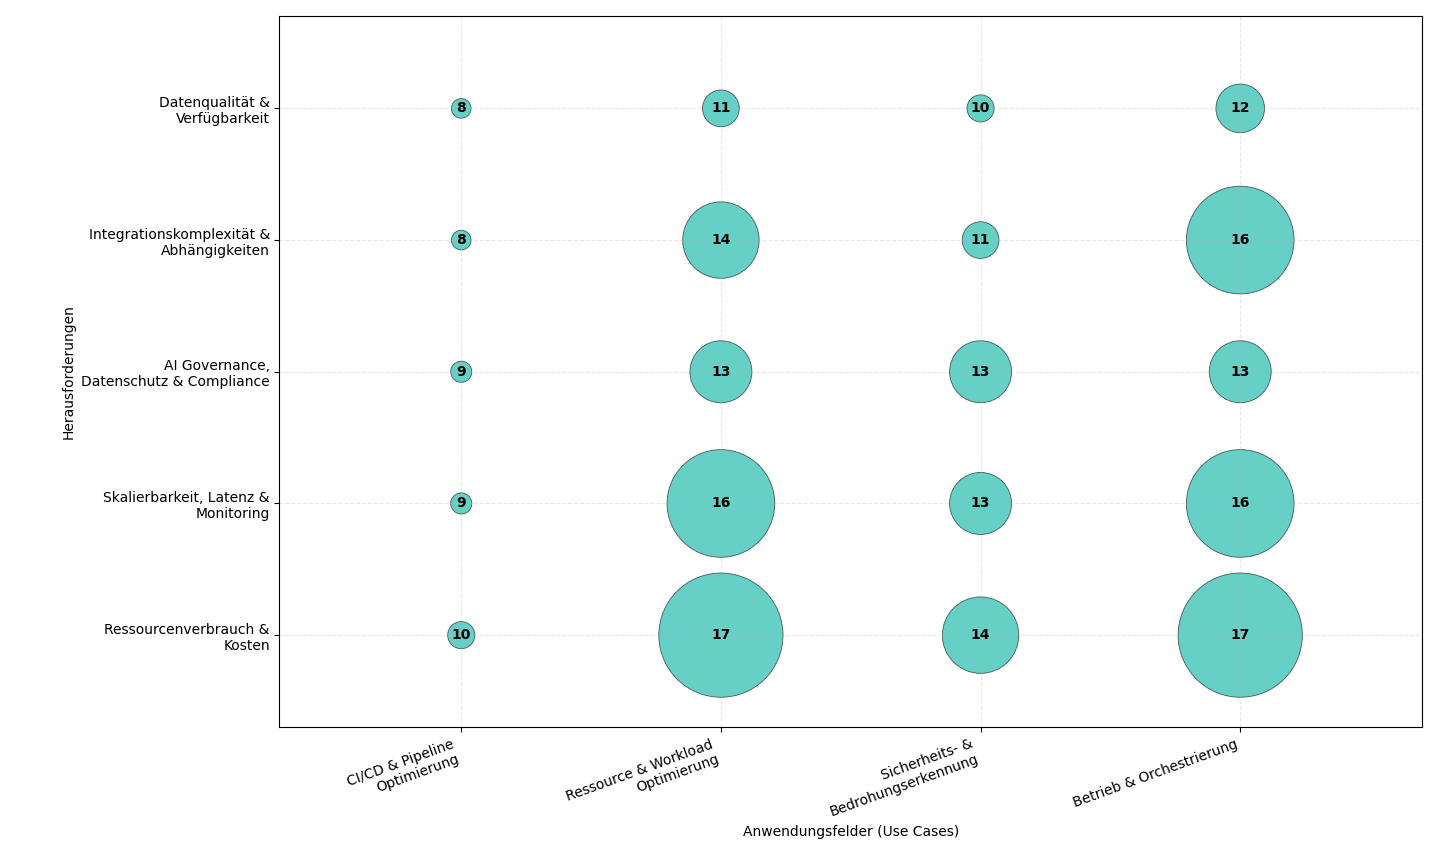
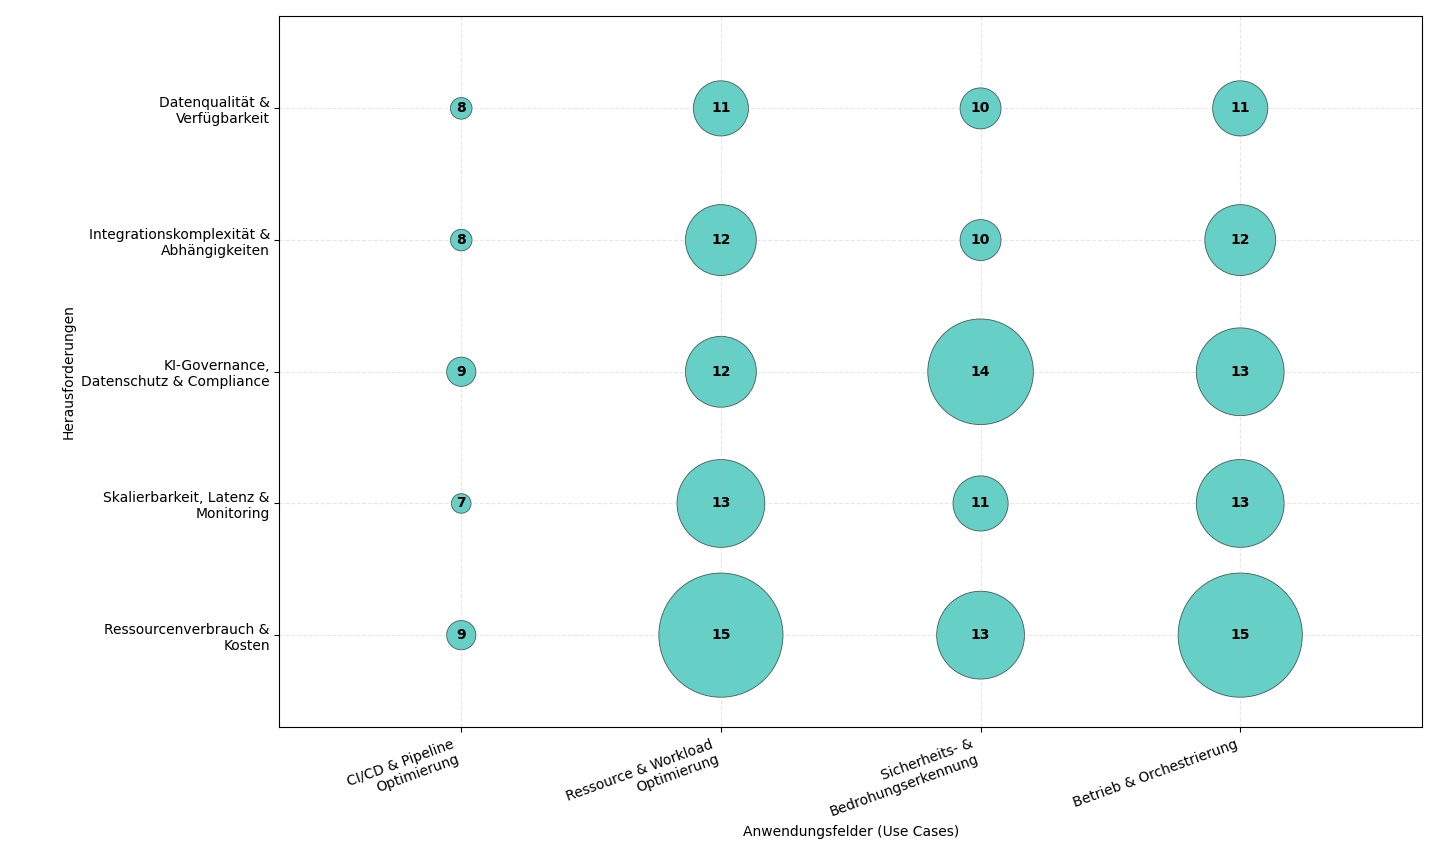
feat: 04_02 überarbeitet

diff --git a/chapters/subchapters/04_ergebnisse/04_02_mappingStudy.tex b/chapters/subchapters/04_ergebnisse/04_02_mappingStudy.tex
@@ -17,31 +17,33 @@ Die Häufigkeiten geben an, wie oft eine bestimmte Kombination in der Literatur 
 \begin{figure}[H]
     \centering
     \includegraphics[width=\textwidth]{figures/04_ergebnisse/04_02_mapping/04_02_01_mapping.png}
-    \caption{Korrelation zwischen Anwendungsfelderen (Use Cases) und Herausforderungen}
+    \caption{Korrelation zwischen Anwendungsfelder (Use Cases) und Herausforderungen}
     \label{fig:04_02_01_mapping}
 \end{figure}
 
-Besonders deutlich wird die starke Verknüpfung der Use Cases Ressourcen- und Workload-Optimierung sowie Resilienz, Self-Healing und Predictive Maintenance mit nahezu allen Herausforderungskategorien. 
-Die Ressourcen- und Workload-Optimierung weist in allen Bereichen hohe Werte auf, je nach Herausforderung liegen diese zwischen n=13 und n=17.
-Dieser Anwendungsfall verdeutlicht ein Spannungsfeld zwischen hohem Ressourcenbedarf, Datenmanagement und Pipeline-Komplexität (bedingt durch große und heterogene Datenmengen) sowie Trade-offs zwischen Skalierbarkeit und Latenz, wie es auch in \cite{bajwaCLOUDNATIVEARCHITECTURESLARGESCALE2025} beschrieben wird.
-Ein ähnlich breites Muster zeigt sich im Bereich Self-Healing und Predictive Maintenance, der über alle Herausforderungskategorien hinweg hohe Häufigkeiten erreicht (zwischen n= 12 und n=17).
-Insgesamt deutet dies darauf hin, dass beide Use Cases in der Literatur als besonders relevante Einsatzfelder für KI-basierte Optimierungen betrachtet werden, da sie auf zentrale betriebliche Ziele wie Effizienz, Zuverlässigkeit und einen höheren Automatisierungsgrad in DevOps-Prozessen einzahlen \cite{kankanalaAIMLDevOps2024}.
+Besonders deutlich wird die starke Verknüpfung der Use Cases Ressource- und Workload-Optimierung sowie Betrieb und Orchestrierung mit nahezu allen Herausforderungskategorien.
+Die Ressourcen- und Workload-Optimierung weist über alle Bereiche hinweg hohe Werte auf (n=15, 13, 12, 12, 11). 
+Diese breite Korrelation ist plausibel, da Ressourcen- und Workload-Optimierung einen besonders direkten Bezug zu Kosten hat und sich Effekte häufig über die Cloud-Abrechnung unmittelbar sichtbar machen.
+KI-gesteuertes Auto-Scaling vermeidet die Überbereitstellung von Ressourcen und senkt dadurch die monatlichen Abrechnungskosten direkt \cite{poudelAIDrivenIntelligentAutoScaling2025a}.
+Gleichzeitig wird deutlich, dass Echtzeit-Inferenz zwar Genauigkeit und Latenz verbessert, jedoch durch höheren CPU-/Memory-Verbrauch die Ressourcen- und Kostenbelastung erhöht und damit eine Abwägung zwischen Modellqualität und Betriebsaufwand erforderlich macht \cite{guptaCloudNativeMLArchitecting2024a}.
 
-Der Use Case Sicherheits- und Bedrohungserkennung zeigt seine höchste Ausprägung im Bereich AI Governance, Datenschutz und Compliance (n=14) sowie bei Ressourcenverbrauch und Kosten (n=14). 
-Auch die übrigen Herausforderungen weisen hohe Werte auf (n=13, 11, 10). 
-Dies spiegelt wider, dass sicherheitsbezogene KI-Ansätze nicht nur regulatorische und organisatorische Fragen berühren, sondern ebenso Einfluss auf Monitoring, Ressourcenmanagement und Integrationsprozesse haben.
+Ein sehr ähnliches Muster zeigt sich im Bereich Betrieb \& Orchestrierung, der ebenfalls in allen Herausforderungskategorien hohe Häufigkeiten erreicht (n=15, 13, 13, 12, 11). 
+Das deutet darauf hin, dass KI im Plattformbetrieb häufig nicht als Einzellösung betrachtet wird. 
+Stattdessen ist sie meist in mehrere Betriebsbausteine eingebettet, z.B. Monitoring, Deployment, Orchestrierung und Governance.
+Damit werden in diesem Bereich oft mehrere Herausforderungen gleichzeitig berührt, etwa Kosten, Skalierung, Integration und datenbezogene Voraussetzungen.
 
-Die CI/CD- und Pipeline-Optimierung zeigt im Vergleich moderate, aber dennoch durchgehend hohe Werte über alle Herausforderungen hinweg (n=10, 9, 9, 9, 8). 
-Dies deutet darauf hin, dass KI-Anwendungen zur Optimierung von Build-, Test- und Deployment-Prozessen zwar breit diskutiert werden, aber weniger stark im Zentrum systemübergreifender Herausforderungen stehen als andere Anwendungsbereiche.
+Der Use Case Sicherheits- und Bedrohungserkennung zeigt seine höchste Ausprägung im Bereich KI-Governance, Datenschutz und Compliance (n=14) sowie bei Ressourcenverbrauch und Kosten (n=13). 
+Auch die übrigen Herausforderungen weisen weiterhin hohe Werte auf (n=11, 10, 10). 
+Dies deutet darauf hin, dass sicherheitsbezogene KI-Ansätze neben Governance-Themen häufig auch Monitoring, Integrationsprozesse und die zugrunde liegende Datenlage betreffen.
 
-Etwas weniger dominant, aber klar erkennbar, ist die Verteilung im Bereich Intelligente Bereitstellung (Edge-AI und Serverless). 
-Die Häufigkeiten liegen zwischen n=14 und n=11 und zeigen damit ein insgesamt konsistentes, jedoch weniger dominantes Muster als in den zuvor genannten Bereichen. 
-Dies legt nahe, dass dieses Anwendungsfeld im aktuellen Forschungsstand zwar relevant ist, jedoch nicht denselben Schwerpunkt bildet wie die großen Themenfelder Optimierung, Resilienz und Sicherheit.
+Die CI/CD- \& Pipeline-Optimierung zeigt insgesamt die niedrigsten Werte, bleibt aber über alle Herausforderungen hinweg relativ konstant (n=9, 7, 9, 8, 8). 
+KI wird hier vor allem eingesetzt, um einzelne Schritte wie Builds, Tests oder Deployments zu verbessern. 
+Im Vergleich zu ressourcen- oder betriebsnahen Use Cases werden jedoch weniger Herausforderungen gleichzeitig berührt. 
+Kosten, Tool-Abhängigkeiten und Governance-Fragen bleiben trotzdem relevant, etwa durch zusätzlichen Rechenaufwand und die notwendige Nachvollziehbarkeit automatisierter Entscheidungen \cite{tamanampudiAIEnhancedContinuousIntegration}.
 
-Insgesamt zeigt die Verteilung der Häufigkeiten, dass KI-Anwendungen im Platform Engineering besonders dort adressiert werden, wo Effizienz, Stabilität, Automatisierung und Sicherheitsaspekte zusammenwirken. 
-Die Häufungen bei einzelnen Anwendungsbereichen zeigen, welche Themen in der Forschung besonders im Fokus stehen.
-Dadurch wird verdeutlicht, in welchen Bereichen KI-Lösungen aktuell als besonders relevant angesehen werden.
-
+Insgesamt verdeutlicht die Verteilung der Häufigkeiten, dass KI-Anwendungen im Platform Engineering besonders dort adressiert werden, wo betriebliche Effizienz und Automatisierung direkt mit Kosten, Skalierung, Governance
+und Integrationsfragen zusammenwirken. 
+Die Häufungen zeigen somit, welche Themen in der Forschung besonders im Fokus stehen und in welchen Bereichen KI-Lösungen aktuell besonders häufig diskutiert werden.
 
 \subsection{Zusammenspiel der Lernparadigmen und Algorithmen}
 \label{subsec:mappingzwei}
@@ -90,7 +92,7 @@ Für Ressourcenverbrauch und Kosten sowie Skalierbarkeit, Latenz und Monitoring 
 In beiden Fällen treten ML/DL Frameworks \& Bibliotheken sowie Monitoring vergleichbar häufig auf (jeweils n=11).
 Das spricht dafür, dass diese Herausforderungen häufig zusammen mit Entwicklungs- und Betriebsaspekten diskutiert werden.
 
-Bei AI Governance, Datenschutz und Compliance zeigt sich ein ähnlicher Schwerpunkt.
+Bei KI-Governance, Datenschutz und Compliance zeigt sich ein ähnlicher Schwerpunkt.
 MLOps-Tools \& Orchestrierung werden hier am häufigsten zusammen mit dieser Herausforderung genannt (n=12), gefolgt von Monitoring (n=10).
 ML/DL Frameworks \& Bibliotheken treten etwas seltener auf (n=8).
 Insgesamt werden Governance- und Compliance-Themen damit eher auf Betriebs- als nur auf Modell- oder Trainingsebene verortet.
